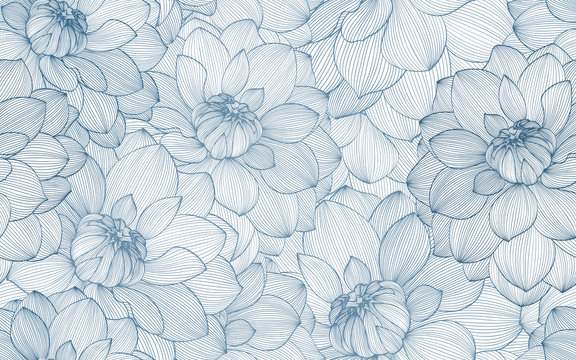
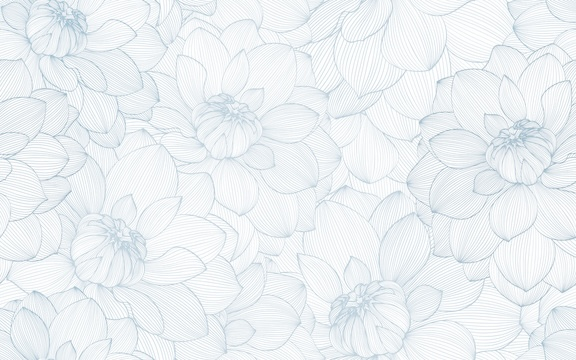
Editing background image

diff --git a/styles.css b/styles.css
@@ -8,8 +8,6 @@ body {
     -webkit-font-smoothing: antialiased;
     -moz-osx-font-smoothing: grayscale;
     background-image: url("assets/background_img.jpg");
-    background-color: rgba(0, 0, 0, 0.2);
-    background-blend-mode: overlay;
   }
   
   code {
@@ -24,7 +22,7 @@ body {
     text-align: center;
     margin-left: 25%;
     margin-right: 25%;
-    animation: fade 1s ease-in-out;
+    animation: fade 1.5s ease-in-out;
   }
   
 .paragraph_style_1 {
@@ -49,7 +47,7 @@ body {
   margin-left: auto;
   margin-right: auto;
   width: 85%;
-  animation: fade 1s ease-in-out;
+  animation: fade 2s ease-in-out;
 }
 
 .we_eloped_img {
